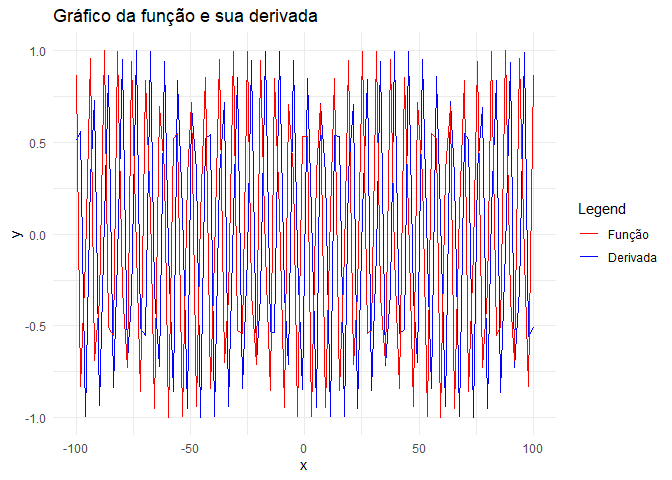
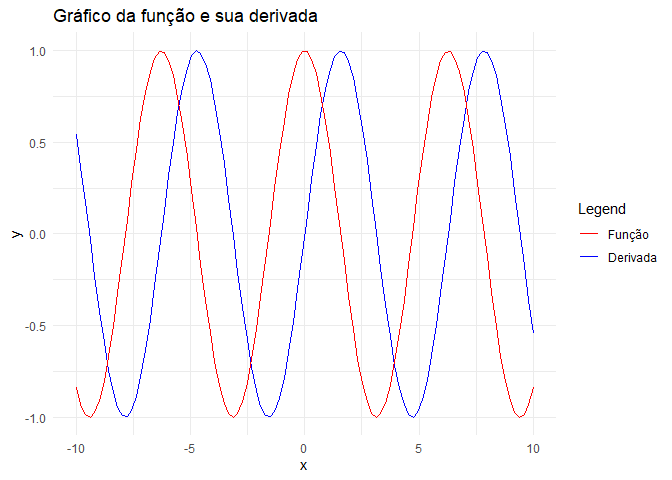
versão funcional

diff --git a/derivadas.html b/derivadas.html
@@ -374,7 +374,7 @@ derivada</code></pre>
 <pre class="r"><code># Derivada para um valor
 derivada(0)</code></pre>
 <pre><code>## [1] 1</code></pre>
-<pre class="r"><code>x_vals &lt;- seq(-100, 100, length.out = 100)
+<pre class="r"><code>x_vals &lt;- seq(-10, 10, length.out = 100)
 
 # Calcula os valores das funções e derivadas para os valores de x
 f_vals &lt;- f(x_vals)
@@ -395,7 +395,7 @@ grafico &lt;- ggplot(dados, aes(x)) +
 
 # Exibe o gráfico
 print(grafico)</code></pre>
[2 lines of base64/hex data omitted]
 
 
 

diff --git a/derivadas.md b/derivadas.md
@@ -52,7 +52,7 @@ derivada(0)
 ```
 
 ```r
-x_vals <- seq(-100, 100, length.out = 100)
+x_vals <- seq(-10, 10, length.out = 100)
 
 # Calcula os valores das funções e derivadas para os valores de x
 f_vals <- f(x_vals)
